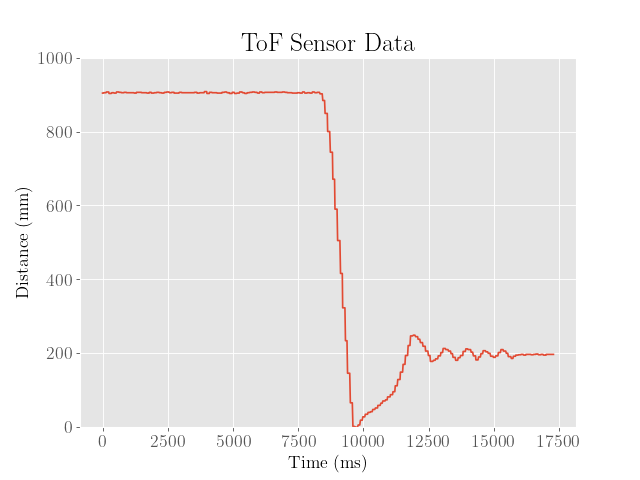
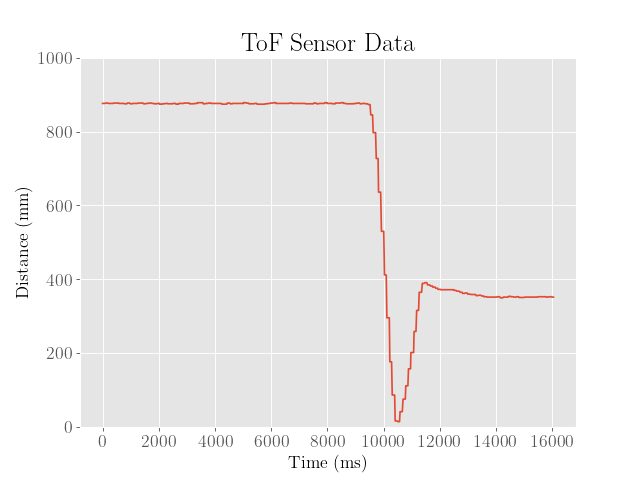
lab 6

diff --git a/docs/_pages/lab-6.md b/docs/_pages/lab-6.md
@@ -4,7 +4,7 @@ title: "Lab 6: Closed-loop Control (PID)"
 sidebar:
   nav: "lab-6"
 ---
-The objective of this lab was to implement a simple PID controller for the robot, which controlled the robot's position from a wall at a setpoint of 200 mm.
+The objective of this lab was to implement a simple PID controller for the robot, which controlled the robot's position from a wall at a setpoint of 1 foot (roughly 304 mm) from the wall. 
 
 ## Setup:
 
@@ -46,7 +46,7 @@ if (myICM.dataReady() && distanceSensor1.checkForDataReady() && distanceSensor2.
 }
 ```
 
-Once the data was received on the laptop, it was subsequently processed into arrays in Python and then saved into a CSV file for future analysis.
+Once the data was received on the laptop, it was subsequently processed into arrays in Python and then saved into a PKL file for future analysis.
 
 ```python
 async def get_data(uuid,byte_array):
@@ -55,15 +55,6 @@ async def get_data(uuid,byte_array):
     global kp, ki, kd, motorl, motorr
     MAX_SIZE = 1000
     vecfloat = np.vectorize(lambda x: float(x[3::]))
-    
-    # save data
-    if len(motorl) >= MAX_SIZE:
-        with open(filename, 'ab') as file:
-            pickle.dump([time_millis,acc_mg,gyr_dps,depth1_mm,depth2_mm,kp,ki,kd,motorl,motorr], file)
-        time_millis = []
-        acc_mg,gyr_dps,depth1_mm,depth2_mm = [],[],[],[]
-        kp,ki,kd,motorl,motorr = [],[],[],[],[]
-        temp5s_str = ''
     
     # parse string
     temp5s_str = ble.bytearray_to_string(byte_array)
@@ -92,25 +83,42 @@ async def get_data(uuid,byte_array):
         kd.append(float(d[3::]))
         motorl.append(int(m[0][3::]))
         motorr.append(int(m[1][3::]))
+        
+    # save data 
+    if len(motorl) >= MAX_SIZE:
+        plotData()
+        with open(filename, 'ab') as file:
+            pickle.dump([time_millis,acc_mg,gyr_dps,depth1_mm,depth2_mm,kp,ki,kd,motorl,motorr], file)
+        time_millis = []
+        acc_mg,gyr_dps,depth1_mm,depth2_mm = [],[],[],[]
+        kp,ki,kd,motorl,motorr = [],[],[],[],[]
+        temp5s_str = ''
 ```
 
-Unfortunately, compiling all of the code and dependencies needed to facilitate Bluetooth communication on the Artemis required inconveniently large compile times. 
+Unfortunately, compiling all of the code and dependencies needed to facilitate Bluetooth communication on the Artemis required inconveniently large compile times, which could potentially last several minutes. 
 
-This would make testing various PID parameters somewhat painfully slow and inefficient, as there would otherwise essentially be a 5 minute wait time between each test run.
+This would make testing various PID parameters somewhat painfully slow and inefficient, which is especially inconvenient since manually tuning the controller to achieve optimized rise times and overshoot would require many repeated trials of precise gain adjustments.
 
-To circumvent this issue, a set of Bluetooth commands was developed that could be activated via keyboard commands on the laptop.
-
- This included simple commands for remote control access, activating various control modes, and tuning PID parameters: 
+To circumvent this issue, a set of Bluetooth commands was developed that could be activated via keyboard commands on the laptop, including simple commands for remote control access, activating the PID loop, and tuning PID parameters:
 
 ```python
+keyboard_input = keyboard.read_key()
+# movement using the WASD keys
+if keyboard_input == "w":
+    ble.send_command(CMD.FWD, "")
+elif keyboard_input == "s":
+    ble.send_command(CMD.BWD, "")
+elif keyboard_input == "a":
+    ble.send_command(CMD.LEFT, "")
+elif keyboard_input == "d":
+    ble.send_command(CMD.RIGHT, "")
+elif keyboard_input == "space":
+    ble.send_command(CMD.STOP, "")
+
 # PWM (or PID) tuning using the arrow keys
 elif keyboard_input == "up":
-    ble.send_command(CMD.P_CONTROL , "")
-elif keyboard_input == "down":
-    ble.send_command(CMD.PI_CONTROL , "")
-elif keyboard_input == "left":
     ble.send_command(CMD.PID_CONTROL , "")
-elif keyboard_input == "right":
+elif keyboard_input == "down":
     ble.send_command(CMD.STOP, "")
     ble.send_command(CMD.SEND , "")
 elif keyboard_input == "p":
@@ -131,21 +139,21 @@ The use of the nonstandard keyboard module and the general outline of the Python
 
 ## P Controller:
 
-In implementing a proportional (and eventually a PID controller), the following function was inserted into the control loop:
+To implement the PID controller, the following function was used as the PID loop for the robot.
 
 ```cpp
 float sum_error = 0;
 float prev_error = 0;
-float f_diff_error = 0;
-void pidcontrol(){
-  float setpoint = 200;
+float f_diff_error  = 0;
+void pidcontrol(){ 
+  float setpoint = 304;
   float windup_cap = 1000;
   float error = d2[previdx]-setpoint;
   if (abs(sum_error + error) <= windup_cap) {
     sum_error += error;
   }
   
-  float alpha = 0.5;
+  float alpha = 0.25;
   float diff_error = error - prev_error;
   prev_error = error;
   f_diff_error = alpha*diff_error + (1-alpha)*f_diff_error; 
@@ -154,9 +162,20 @@ void pidcontrol(){
   float i_term = KI*sum_error;
   float d_term = KD*f_diff_error;
   int pwm = round(p_term + i_term + d_term);
-  writepwm(pwm,pwm);
+  if (abs(pwm) <= 3){
+    analogWrite(A15,0);
+    analogWrite(A16,0);
+    analogWrite(4,0);
+    analogWrite(A5,0);
+  } else{
+    pwml = pwm;
+    pwmr = pwm;
+    writepwm(pwml,pwmr);
+  }
 }
 ```
+
+Note that we assume a constant and fast sampling rate, so the discrete sum of errors approximates the integral term and the discrete difference of errors approximates the derivative term.
 
 The loop relies on a helper function used to write PWM values to the motors:
 
@@ -184,7 +203,7 @@ Furthermore, to ensure that the PWM values would be rescaled outside of the moto
 
 ```cpp
 int rescalepwm(float pwm){
-  float deadband = 45;
+  float deadband = 40;
   return round((pwm+deadband)*225.0/255.0);
 }
 
@@ -198,41 +217,98 @@ int clippwm(int pwm){
 }
 ```
 
-To tune the controller, the proportional error gain was first adjusted such that the robot would begin to oscillate around the setpoint of 200 mm. This occured at around a gain of 1.1, as shown in the following:
+To tune the controller, we tune the proportional and integral gains first to gauge the minimum gain values that lead to instability. The derivative term is then set afterwards to reduce overshoot and make the controller robust to disturbances.
+
+Following this heuristic, the proportional error gain was first adjusted such that the robot would begin to oscillate around the setpoint of 304 mm, where the other gain values were set to 0. 
+
+This occured at around a gain of 0.2, as shown in the following:
+
+<iframe width="560" height="315" src="https://www.youtube.com/embed/u1uavWQutMg" title="YouTube video player" frameborder="0" allow="accelerometer; autoplay; clipboard-write; encrypted-media; gyroscope; picture-in-picture; web-share" allowfullscreen></iframe>
 
 ![P Control](/lab-6-assets/pcontrol.png)
 
-From here it is clear that the robot manages to reach the setpoint quite closely within a few millimeters, but suffers from a significant overshoot. 
+From here it is clear that the robot manages to get close to the desired setpoint of 304 mm, but ends up at around 50 mm away from the desired setpoint.
 
-We also note that the robot seems to reach the setpoint somewhat slower as it gets closer to the wall. 
+We also observe that on the second time it passes the setpoint, it approaches the wall much slower than before, which is likely due to the low amounts of error.
 
-To address this issue, an integral term was then added, which could hopefully add an additional kick to the motors towards the end as the sum of the past errors would accrue to a large enough value:
+To provide a larger kick to the motors in the case where the robot strays too far from the setpoint for too long, an integral term might be more desirable.
 
 ## PI Controller:
 
-In tuning the PI controller, the proportional gain was scaled back by half to 0.055, and the integral gain was then increased unti la loss of stability was achieved:
+In tuning the PI controller, the proportional gain was scaled back by half to 0.1, and the integral gain was then increased until a loss of stability was achieved.
+
+This occurred at around a gain of 0.02:
+
+<iframe width="560" height="315" src="https://www.youtube.com/embed/XdIC6-nzy8w" title="YouTube video player" frameborder="0" allow="accelerometer; autoplay; clipboard-write; encrypted-media; gyroscope; picture-in-picture; web-share" allowfullscreen></iframe>
 
 ![PI Control](/lab-6-assets/picontrol.png)
 
-As shown in above, we see that the robot demonstrates significant oscillations around the setpoint, and approaches the setpoint much faster.
+As shown in above, we see that the robot demonstrates significant oscillations around the setpoint, and approaches the setpoint somewhat faster.
 
-Furthermore, we note that although the integral error was carefully clamped to a maximum value to prevent integral windup issues, the integral term was enough to build up momentum such that the robot would severely overshoot the setpoint. This resulted in the robot crashing into the wall rather than settling at the setpoint.
+Furthermore, we note that although the integral error was carefully clamped to a maximum value to prevent integral windup issues, the integral term was enough to build up momentum such that the robot would severely overshoot the setpoint to the point of crashing into the wall. 
 
-To address this, a derivative term was then added, which could hopefully penalize fast transitions in the error by setting negative gain values. Though this would potentially add instability when left alone, the hope is that this would be cancelled out anyway by the integral term.
+To address this, a derivative term was then added, which could hopefully reduce the motor speeds the faster the error decreases.
 
 ## PID Controller:
 
-To tune the fully fledged PID controller, the integral gain was scaled back by half to 0.025, and the derivative gain was set to around 0.1:o
+To tune the fully fledged PID controller, the integral gain was scaled back by half to 0.01, and the derivative gain was set to around 0.3:
+
+<iframe width="560" height="315" src="https://www.youtube.com/embed/GQAxQiuP1vI" title="YouTube video player" frameborder="0" allow="accelerometer; autoplay; clipboard-write; encrypted-media; gyroscope; picture-in-picture; web-share" allowfullscreen></iframe>
 
 ![PID Control](/lab-6-assets/pidcontrol.png)
 
-This procedure was then iterated for each of the steps (setting proportional gain, integral gain, and derivative gain) until a more optimal controller was achieved.
+We then see that the robot is now somewhat closer to the setpoint within about 20 mm, but seems to overshoot the final value by about 130 mm. We also observe that the robot moves slower backwards to the setpoint at the peak of the overshoot, suggesting that the controller can still be improved.
 
- The resulting gains were then tweaked slightly to achieve better rise times and lower overshoot percentages. 
+## Optimizations:
 
-The final result is shown below:
+To improve the controller, the heuristic was repeated a couple more times to find more optimal gain values and to maybe find a general pattern in how the gain values affect the dynamics.
 
-![PID Control Final](/lab-6-assets/pidcontrolfinal.png)
+ First Iteration                            | Second Iteration                   | Third Iteration                           | Fourth Iteration                                 |
+|:-----------------------------------------:|:----------------------------------:|:-----------------------------------------:|:------------------------------------------------:|
+![PID Control](/lab-6-assets/pidcontrol.png)|![PID PID](/lab-6-assets/pidpid.png)|![PID PID PID](/lab-6-assets/pidpidpid.png)|![PID PID PID PID](/lab-6-assets/pidpidpidpid.png)|
+
+
+As shown above, after the second iteration, the overshoot was somewhat reduced by about 50 mm, which is somewhat due to the lower proportional and integral gains and higher derivative gain. However, we also see that the final error is somewhat larger.
+
+Because both the overshoot and final error are both somewhat significant, a third iteration was executed, where the robot then reaches the setpoint with virtually no overshoot whatsoever. Despite this, the final error from the setpoint was about 100 mm, which was far too large.
+
+Because the controller already achieved a desirable overshoot, the proportional and integral gains were then kicked back to ensure that the robot approaches the setpoint slower and more accurately, and the derivative gain was increased to slow down near the setpoint. 
+
+We then find after the fourth iteration, the robot approaches the setpoint accurately with minimal overshoot. While this is already quite desirable as a controller, the slow rise time of about a full second is still somewhat suboptimal.
+
+The final PID controller was then tuned to higher proportional and integral gains to speed up to the setpoint, and then the derivative gain was adjusted the minimum value needed to minimize the overshot value:
+
+
+
+![Optimized](/lab-6-assets/optimized.png)
+
+Admittedly, the final error from the setpoint is still around 50 mm, suggesting a tradeoff between accuracy and speed of the controller.
+
+The parameters for each iteration, including the final optimized controller, are shown below:
+
+| Iteration | KP     | KI     | KD   | Overshoot (mm) | Final Error (mm) |
+| --------- | ------ | ------ | ---- | -------------- | ---------------- |
+| 1         | 0.1000 | 0.0100 | 0.30 | 130            | 20               |
+| 2         | 0.0900 | 0.0075 | 0.35 | 82             | 68               |
+| 3         | 0.1125 | 0.0050 | 0.50 | 0              | 103              |
+| 4         | 0.1000 | 0.0025 | 1.00 | 8              | 0                |
+| 4         | 0.1525 | 0.0045 | 0.26 | 1              | 45               |
+
+Finally, we note that the above tests only demonstrate the performance of the controller at initial position of within a meter from the wall on a carpeted floor. 
+
+We first verify that the robot's performance was robust over longer distances from the wall:
+
+<iframe width="560" height="315" src="https://www.youtube.com/embed/i0BeqN5DeG4" title="YouTube video player" frameborder="0" allow="accelerometer; autoplay; clipboard-write; encrypted-media; gyroscope; picture-in-picture; web-share" allowfullscreen></iframe>
+
+![Long](/lab-6-assets/long.png)
+
+Next, we demonstrate the performance on a smoother surface, where friction is somewhat reduced:
+
+<iframe width="560" height="315" src="https://www.youtube.com/embed/2niU6rWtvDo" title="YouTube video player" frameborder="0" allow="accelerometer; autoplay; clipboard-write; encrypted-media; gyroscope; picture-in-picture; web-share" allowfullscreen></iframe>
+
+![Floor](/lab-6-assets/floor.png)
+
+From here we observe that the performance is somewhat worse, where the overshoot and final error from the setpoint are both worse, which intuitively makes sense. To address this issue, the proportional and integral gains could be reduced, whereas the derivative gain could be increased, which would trade speed for accuracy.
 
 ## Speed:
 
